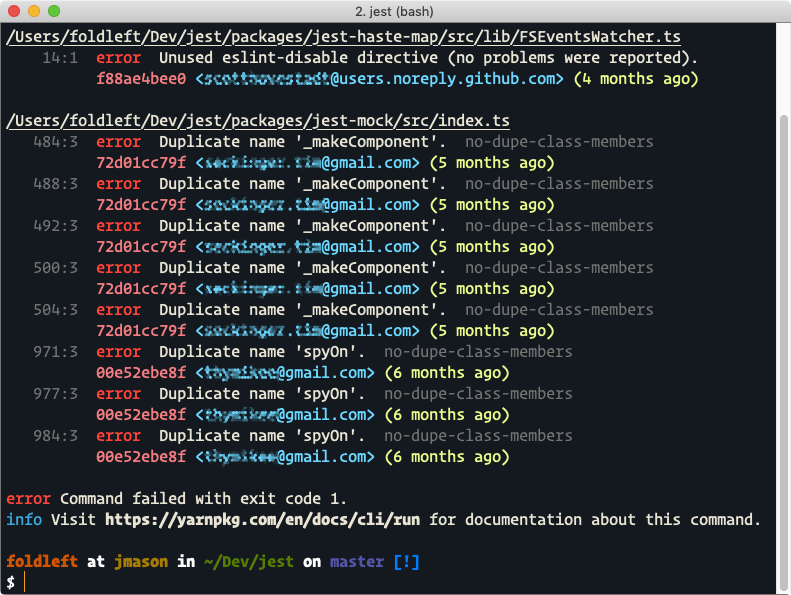
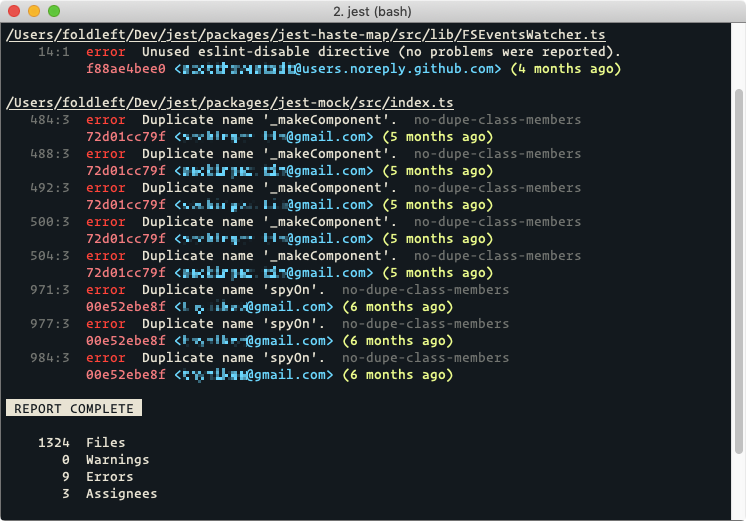
feat(format): add support for personalised reports

diff --git a/src/formatters/git-log.ts b/src/formatters/git-log.ts
@@ -33,7 +33,17 @@ interface EslintResult {
   source?: string;
 }
 
+interface ResultItem {
+  commit: string;
+  date: string;
+  email: string;
+  message: EslintMessage;
+  result: EslintResult;
+}
+
 interface FinalConfig {
+  /** If set, show only results for Emails matching this pattern */
+  emailRegExp?: RegExp;
   /** Whitespace to insert between items when formatting */
   gutter: string;
   /** Translations for plain text used when formatting */
@@ -77,6 +87,7 @@ export interface GitLogFormatter {
 export type CreateGitLogFormatter = (config: Config) => GitLogFormatter;
 
 export const defaultConfig: FinalConfig = Object.freeze({
+  emailRegExp: undefined,
   gutter: '  ',
   label: {
     error: 'error',
@@ -98,53 +109,151 @@ export const defaultConfig: FinalConfig = Object.freeze({
 /** Create an instance of the Formatter with your own alternative config */
 export const createGitLogFormatter: CreateGitLogFormatter = (config) => {
   const formatter = (results: EslintResult[]) => {
-    const getConfig = (path: string) =>
-      getIn(path, config) || getIn(path, defaultConfig);
+    const getConfig = <T>(path: string) =>
+      getIn<T>(path, config) || (getIn<T>(path, defaultConfig) as T);
 
-    const gutter = getConfig('gutter');
-    const locationColumnWidth = getConfig('locationColumnWidth');
-    const errorLabel = getConfig('label.error');
-    const warningLabel = getConfig('label.warning');
-    const styledError = getConfig('style.error');
-    const styledFilePath = getConfig('style.filePath');
-    const styledWarning = getConfig('style.warning');
-    const styledLocation = getConfig('style.location');
-    const styledRule = getConfig('style.rule');
-    const styledCommit = getConfig('style.commit');
-    const styledDate = getConfig('style.date');
-    const styledEmail = getConfig('style.email');
+    const emailRegExp = getIn<RegExp | undefined>('emailRegExp', config);
+    const gutter = getConfig<string>('gutter');
+    const locationColumnWidth = getConfig<number>('locationColumnWidth');
+    const errorLabel = getConfig<string>('label.error');
+    const warningLabel = getConfig<string>('label.warning');
+    const styledError = getConfig<typeof chalk>('style.error');
+    const styledFilePath = getConfig<typeof chalk>('style.filePath');
+    const styledWarning = getConfig<typeof chalk>('style.warning');
+    const styledLocation = getConfig<typeof chalk>('style.location');
+    const styledRule = getConfig<typeof chalk>('style.rule');
+    const styledCommit = getConfig<typeof chalk>('style.commit');
+    const styledDate = getConfig<typeof chalk>('style.date');
+    const styledEmail = getConfig<typeof chalk>('style.email');
     const WARNING = styledWarning(warningLabel);
     const ERROR = styledError(errorLabel);
 
-    return results.reduce((output, { filePath, messages }) => {
-      if (messages.length > 0) {
-        output += `\n${styledFilePath(filePath)}\n`;
-        messages.forEach(({ ruleId, severity, message, line, column }) => {
-          const command = `git blame --date=relative --show-email -L ${line},${line} -- "${filePath}"`;
-          const blame = execSync(command, { encoding: 'utf8' });
-          const rawLocation = `${line}:${column}`;
-          const status = severity === 1 ? WARNING : ERROR;
-          const commitMatch = blame.match(/^[^ ]+/) || [''];
-          const dateMatch = blame.match(/> (.+ ago)/) || ['', ''];
-          const emailMatch = blame.match(/<([^>]+)>/) || ['', ''];
-          const rightAlignLocations = ' '.repeat(
-            locationColumnWidth - rawLocation.length,
+    const mergeMessageWith = (result: EslintResult) => (
+      message: EslintMessage,
+    ): ResultItem => {
+      const { filePath } = result;
+      const { line } = message;
+      const command = `git blame --date=relative --show-email -L ${line},${line} -- "${filePath}"`;
+      const blame = execSync(command, { encoding: 'utf8' });
+      const commitMatch = blame.match(/^[^ ]+/) || [''];
+      const dateMatch = blame.match(/> (.+ ago)/) || ['', ''];
+      const emailMatch = blame.match(/<([^>]+)>/) || ['', ''];
+      const commit = commitMatch[0];
+      const date = dateMatch[1].trim();
+      const email = emailMatch[1];
+      return {
+        commit,
+        date,
+        email,
+        message,
+        result,
+      };
+    };
+
+    const rightAlignToCol1 = (col1Contents: string) =>
+      ' '.repeat(locationColumnWidth - col1Contents.length);
+
+    const leftAlignToCol2 = (col1Contents: string) =>
+      ' '.repeat(
+        rightAlignToCol1(col1Contents).length +
+          col1Contents.length +
+          gutter.length,
+      );
+
+    const cols = (col1: string | number, col2: string | number) =>
+      `${rightAlignToCol1(`${col1}`)}${col1}${gutter}${col2}`;
+
+    const formatMessage = ({
+      commit: rawCommit,
+      date: rawDate,
+      email: rawEmail,
+      message: { ruleId, severity, message, line, column },
+    }: ResultItem) => {
+      const rawLocation = `${line}:${column}`;
+      const status = severity === 1 ? WARNING : ERROR;
+      const headIndent = rightAlignToCol1(rawLocation);
+      const footIndent = leftAlignToCol2(rawLocation);
+      const location = styledLocation(rawLocation);
+      const rule = ruleId ? styledRule(ruleId) : '';
+      const commit = styledCommit(`${rawCommit}`);
+      const date = styledDate(`(${rawDate})`);
+      const email = styledEmail(`<${rawEmail}>`);
+      let output = '';
+      output += `${headIndent}${location}${gutter}${status}${gutter}${message}${gutter}${rule}\n`;
+      output += `${footIndent}${commit} ${email} ${date}\n`;
+      return output;
+    };
+
+    const isIncluded = ({ email }: ResultItem) =>
+      emailRegExp ? emailRegExp.test(email) : true;
+
+    const authors = new Set();
+    const total = {
+      all: 0,
+      errors: 0,
+      userErrors: 0,
+      userWarnings: 0,
+      visible: 0,
+      warnings: 0,
+    };
+
+    const body = results.reduce((output, result) => {
+      if (result.messages.length > 0) {
+        const items = result.messages
+          .map(mergeMessageWith(result))
+          .map((item) => {
+            authors.add(item.email);
+            return item;
+          })
+          .filter(isIncluded)
+          .map((item) => {
+            if (item.message.severity === 2) {
+              total.userErrors++;
+            } else if (item.message.severity === 1) {
+              total.userWarnings++;
+            }
+            return item;
+          });
+
+        total.errors += result.errorCount;
+        total.warnings += result.warningCount;
+        total.all += result.messages.length;
+        total.visible += items.length;
+
+        if (items.length > 0) {
+          output += `\n${styledFilePath(result.filePath)}\n`;
+          output += items.reduce<string>(
+            (str: string, item: ResultItem) => `${str}${formatMessage(item)}`,
+            '',
           );
-          const leftAlignCommitsWithStatuses = ' '.repeat(
-            rightAlignLocations.length + rawLocation.length + gutter.length,
-          );
-          const location = styledLocation(rawLocation);
-          const rule = ruleId ? styledRule(ruleId) : '';
-          const commit = styledCommit(`${commitMatch[0]}`);
-          const date = styledDate(`(${dateMatch[1].trim()})`);
-          const email = styledEmail(`<${emailMatch[1]}>`);
-          output += `${rightAlignLocations}${location}${gutter}${status}${gutter}${message}${gutter}${rule}\n`;
-          output += `${leftAlignCommitsWithStatuses}${commit} ${email} ${date}\n`;
-        });
+        }
       }
       return output;
     }, '');
+
+    const banner = chalk.inverse(' REPORT COMPLETE ');
+
+    let footer = '';
+
+    if (emailRegExp) {
+      const totalWarnings = `${total.userWarnings}/${total.warnings}`;
+      const totalErrors = `${total.userErrors}/${total.errors}`;
+      const totalWarningsLabel = `Warnings assigned to ${emailRegExp}`;
+      const totalErrorsLabel = `Errors assigned to ${emailRegExp}`;
+      footer += `${cols(results.length, 'Files')}\n`;
+      footer += `${cols(totalWarnings, totalWarningsLabel)}\n`;
+      footer += `${cols(totalErrors, totalErrorsLabel)}\n`;
+      footer += `${cols(authors.size, 'Assignees')}\n`;
+    } else {
+      footer += `${cols(results.length, 'Files')}\n`;
+      footer += `${cols(total.warnings, 'Warnings')}\n`;
+      footer += `${cols(total.errors, 'Errors')}\n`;
+      footer += `${cols(authors.size, 'Assignees')}\n`;
+    }
+
+    return `${body}\n${banner}\n\n${footer}`;
   };
+
   formatter.defaultConfig = defaultConfig;
   formatter.withConfig = createGitLogFormatter;
   return formatter;

diff --git a/src/formatters/lib/get-in.ts b/src/formatters/lib/get-in.ts
@@ -4,11 +4,11 @@ const isWalkable = (value: any) =>
 const getChild = (parent: any, child: any): any =>
   isWalkable(parent) ? parent[child] : undefined;
 
-export const getIn = (
+export const getIn = <T>(
   pathToValue: string | number,
   owner?: any,
-  defaultValue?: any,
+  defaultValue?: T,
 ) => {
   const value = `${pathToValue}`.split('.').reduce(getChild, owner);
-  return value !== undefined ? value : defaultValue;
+  return value !== undefined ? (value as T) : defaultValue;
 };

diff --git a/README.md b/README.md
@@ -14,10 +14,6 @@
 [![Follow JamieMason on GitHub](https://img.shields.io/github/followers/JamieMason.svg?style=social&label=Follow)](https://github.com/JamieMason)
 [![Follow fold_left on Twitter](https://img.shields.io/twitter/follow/fold_left.svg?style=social&label=Follow)](https://twitter.com/fold_left)
 
-## 🎨 Screenshot
-
-![screenshot](static/screenshot.png)
-
 ## ☁ Installation
 
 ```
@@ -26,47 +22,103 @@ npm install --save-dev eslint eslint-formatter-git-log
 
 ## 🕹 Usage
 
+To use the default configuration, set ESLint's
+[`--format`](https://eslint.org/docs/user-guide/command-line-interface#-f---format)
+option to `git-log` as follows:
+
 ```
-eslint --format 'git-log' file.js
+eslint --format git-log './src/**/*.js'
 ```
+
+## Examples
+
+### Full Report
+
+By default the formatter will display a report of every error or warning in the
+codebase:
+
+![screenshot](static/screenshot.png)
+
+### Personalised Reports
+
+If you work with a lot of Developers in a large Organisation or Codebase —
+introducing new rules is a great way to codify conventions and ensure quality at
+scale. However, when a new rule applies to a particularly prevalent coding
+pattern, it can result in every Developer being presented with a huge list of
+warnings.
+
+Rather than disabling these rules completely, an alternative can be to only
+present each Developer with Errors and Warnings that relate to changes they
+themselves have made.
+
+1. Create a file in your project which follows the structure below.
+
+   ```js
+   const gitLogFormatter = require('eslint-formatter-git-log');
+
+   module.exports = gitLogFormatter.withConfig({
+     emailRegExp: new RegExp(process.env.GIT_COMMITTER_EMAIL),
+   });
+   ```
+
+   In this example we require that the
+   [Git Environment Variable](https://git-scm.com/book/en/v2/Git-Internals-Environment-Variables)
+   `GIT_COMMITTER_EMAIL` is exported and reachable but, since this is an
+   ordinary Node.js Script, the Email Address can be retrieved from the current
+   Contributor's Machine in any way you prefer.
+
+2. Set ESLint's
+   [`--format`](https://eslint.org/docs/user-guide/command-line-interface#-f---format)
+   option to your customised version instead of `git-log`:
+
+   ```
+   eslint --format ./path/to/your/custom-formatter.js './src/**/*.js'
+   ```
+
+![screenshot](static/screenshot-when-filtered.png)
 
 ## ⚖ Configuration
 
-This formatter is written to be as customisable as possible. To create a
-customised version of the formatter you can create a file somewhere in your
-project which follows the structure below.
-
-For this example I am using the default values. You do not need to provide a
-value for every configuration item, only those you want to change.
+This example lists every available option with its corresponding default value.
+You don't need to provide a value for every configuration item, just the ones
+you want to change.
 
 ```js
-const gitLogFormatter = require('eslint-formatter-git-log');
 const chalk = require('chalk');
+const gitLogFormatter = require('eslint-formatter-git-log');
 
 module.exports = gitLogFormatter.withConfig({
-  style: {
-    error: chalk.red,
-    filePath: chalk.underline,
-    warning: chalk.yellow,
-    location: chalk.dim,
-    rule: chalk.dim,
-    commit: chalk.magenta,
-    date: chalk.greenBright,
-    email: chalk.blueBright,
-  },
+  // If set, only show result when Author Email matches this pattern
+  emailRegExp: undefined,
+  // Whitespace to insert between items when formatting
   gutter: '  ',
+  // Translations for plain text used when formatting
   label: {
     error: 'error',
     warning: 'warning',
   },
+  // Increase if you have files with 1000s of lines
   locationColumnWidth: 8,
+  // Which methods of https://github.com/chalk/chalk to use when formatting
+  style: {
+    // eg. "error"
+    error: chalk.red,
+    // eg. "/Users/guybrush/Dev/grogrates/src/index.js"
+    filePath: chalk.underline,
+    // eg. "warning"
+    warning: chalk.yellow,
+    // eg. "161:12"
+    location: chalk.dim,
+    // eg. "no-process-exit"
+    rule: chalk.dim,
+    // eg. "bda304e570"
+    commit: chalk.magenta,
+    // eg. "(1 year, 2 months ago)"
+    date: chalk.greenBright,
+    // eg. "<guybrush@threepwood.grog>"
+    email: chalk.blueBright,
+  },
 });
-```
-
-Then point at your custom formatter instead of the default like so:
-
-```
-eslint --format './path-to-your-custom-formatter.js' file.js
 ```
 
 ## ❓ Getting Help
